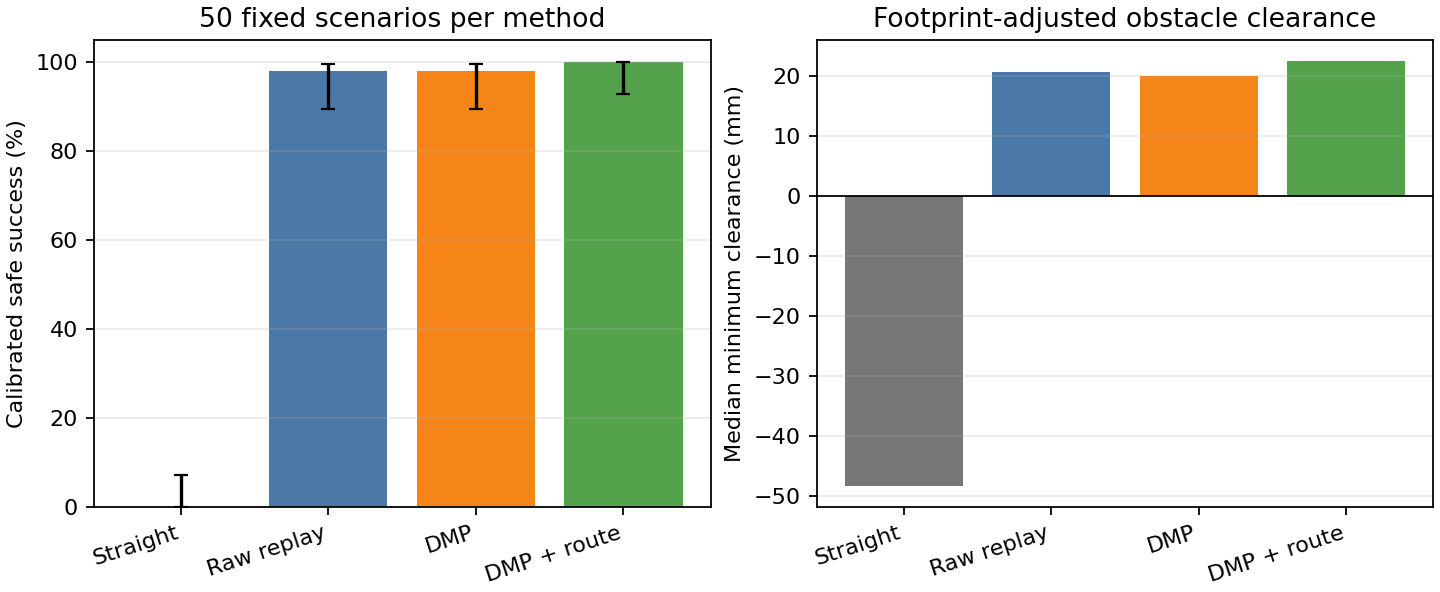
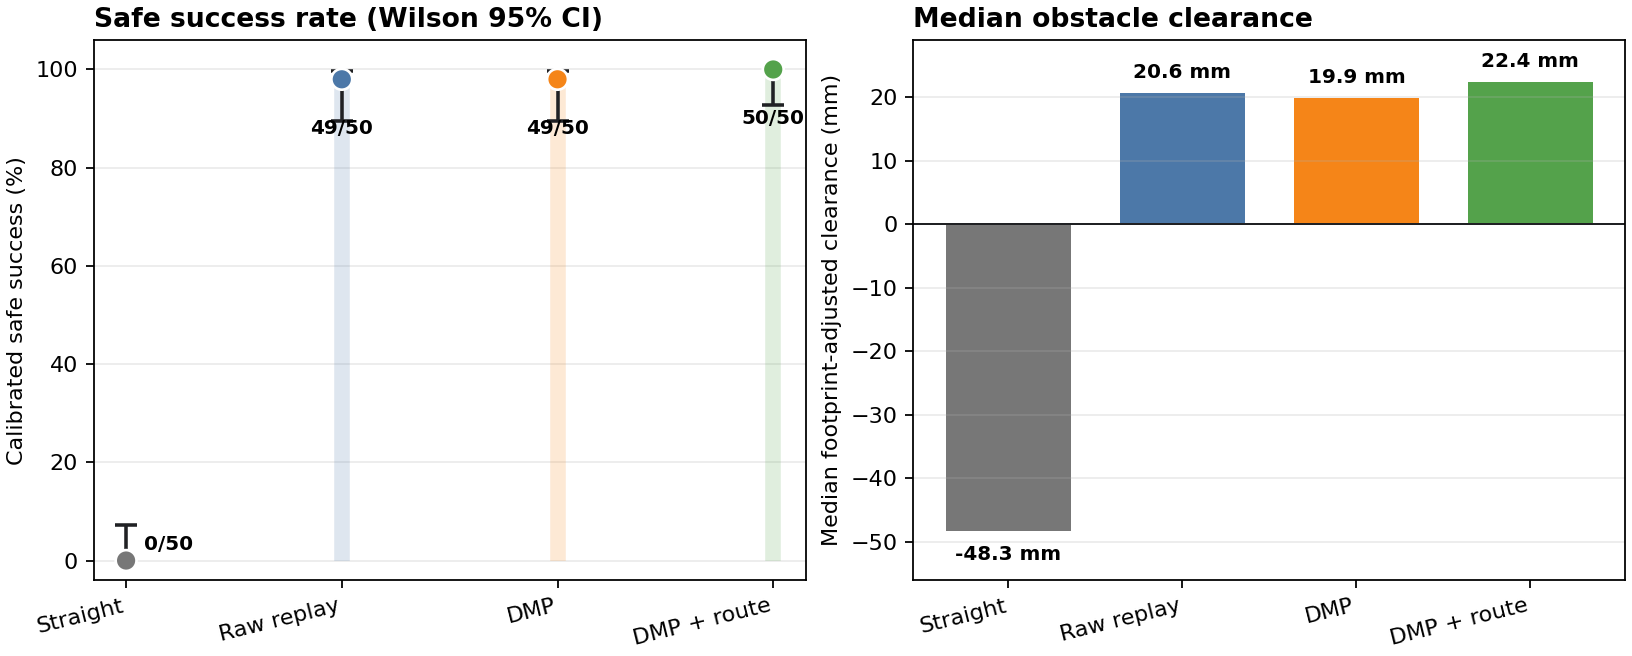
docs: clarify results presentation

Changed region(s): [[0.0, 0.0, 1.0, 0.973], [0.0, 0.2128, 0.0625, 0.7297], [0.0, 0.0912, 0.0625, 0.1216]]

diff --git a/src/phone2panda/evaluation/phase4b.py b/src/phone2panda/evaluation/phase4b.py
@@ -853,17 +853,19 @@ def _plot_comparison(
     path: Path, aggregate: dict[str, Any], success_label: str = "Task success (%)"
 ) -> None:
     labels = ["Straight", "Raw replay", "DMP", "DMP + route"]
+    colors = ["#777777", "#4c78a8", "#f58518", "#54a24b"]
     success = np.asarray([aggregate[method]["success_rate"] for method in METHODS])
     intervals = np.asarray([aggregate[method]["success_rate_ci95"] for method in METHODS])
     clearance = np.asarray(
         [aggregate[method]["minimum_obstacle_clearance_median_m"] for method in METHODS]
     )
-    figure, axes = plt.subplots(1, 2, figsize=(9.0, 3.7), constrained_layout=True)
+    figure, axes = plt.subplots(1, 2, figsize=(10.2, 4.1), constrained_layout=True)
     x = np.arange(len(METHODS))
-    axes[0].bar(x, 100.0 * success, color=["#777777", "#4c78a8", "#f58518", "#54a24b"])
+    success_percent = 100.0 * success
+    axes[0].vlines(x, 0.0, success_percent, color=colors, linewidth=7, alpha=0.18)
     axes[0].errorbar(
         x,
-        100.0 * success,
+        success_percent,
         yerr=np.maximum(
             0.0,
             np.vstack(
@@ -874,18 +876,59 @@ def _plot_comparison(
             ),
         ),
         fmt="none",
-        ecolor="black",
-        capsize=3,
+        ecolor="#202124",
+        elinewidth=1.6,
+        capsize=5,
+        capthick=1.6,
+        zorder=2,
     )
+    axes[0].scatter(
+        x,
+        success_percent,
+        c=colors,
+        s=88,
+        edgecolors="white",
+        linewidths=1.2,
+        zorder=3,
+    )
+    for index, method in enumerate(METHODS):
+        row = aggregate[method]
+        is_zero = success_percent[index] < 1.0
+        axes[0].annotate(
+            f"{row['successes']}/{row['episodes']}",
+            (index, success_percent[index]),
+            xytext=(8, 3) if is_zero else (0, -18),
+            textcoords="offset points",
+            ha="left" if is_zero else "center",
+            va="bottom" if is_zero else "top",
+            fontsize=9,
+            fontweight="bold",
+        )
     axes[0].set_ylabel(success_label)
-    axes[0].set_ylim(0, 105)
-    axes[0].set_title("50 fixed scenarios per method")
-    axes[1].bar(x, 1000.0 * clearance, color=["#777777", "#4c78a8", "#f58518", "#54a24b"])
-    axes[1].axhline(0.0, color="black", linewidth=0.8)
-    axes[1].set_ylabel("Median minimum clearance (mm)")
-    axes[1].set_title("Footprint-adjusted obstacle clearance")
+    axes[0].set_ylim(-4, 106)
+    axes[0].set_yticks([0, 20, 40, 60, 80, 100])
+    axes[0].set_title(
+        "Safe success rate (Wilson 95% CI)", loc="left", fontweight="bold"
+    )
+    clearance_mm = 1000.0 * clearance
+    bars = axes[1].bar(x, clearance_mm, color=colors, width=0.72)
+    axes[1].axhline(0.0, color="#202124", linewidth=0.9)
+    for bar, value in zip(bars, clearance_mm, strict=True):
+        axes[1].annotate(
+            f"{value:.1f} mm",
+            (bar.get_x() + bar.get_width() / 2.0, value),
+            xytext=(0, 5 if value >= 0 else -6),
+            textcoords="offset points",
+            ha="center",
+            va="bottom" if value >= 0 else "top",
+            fontsize=9,
+            fontweight="bold",
+        )
+    axes[1].set_ylim(-56, 29)
+    axes[1].set_ylabel("Median footprint-adjusted clearance (mm)")
+    axes[1].set_title("Median obstacle clearance", loc="left", fontweight="bold")
     for axis in axes:
-        axis.set_xticks(x, labels, rotation=18, ha="right")
+        axis.set_xticks(x, labels, rotation=14, ha="right")
         axis.grid(axis="y", alpha=0.25)
     figure.savefig(path, dpi=160, metadata={"Software": "phone2panda"})
     plt.close(figure)

diff --git a/README.md b/README.md
@@ -42,6 +42,9 @@ object-obstacle, robot-obstacle, robot-table, or self contact.
 
 ## System
 
+**Stack:** Python 3.11 · NumPy · SciPy · OpenCV · PyAV/FFmpeg · MuJoCo ·
+robosuite · Matplotlib · pytest
+
 <p align="center">
   <img src="docs/architecture.svg" width="1200" alt="Phone2Panda system architecture">
 </p>
@@ -60,7 +63,7 @@ object-obstacle, robot-obstacle, robot-table, or self contact.
   <img src="results/phase4e/comparison.png" width="1100" alt="Safe success and obstacle clearance across four controller variants">
 </p>
 
-<p align="center"><sub>Fifty identical calibrated scenarios per controller. Error bars show Wilson 95% intervals.</sub></p>
+<p align="center"><sub>Fifty identical calibrated scenarios per controller. Points show observed safe success and whiskers show Wilson 95% intervals; bars show median footprint-adjusted clearance.</sub></p>
 
 <!-- BEGIN GENERATED RESULTS -->
 The video dataset gate accepted **36/36 recordings**. On the same 50 held-out calibrated simulator scenarios:
